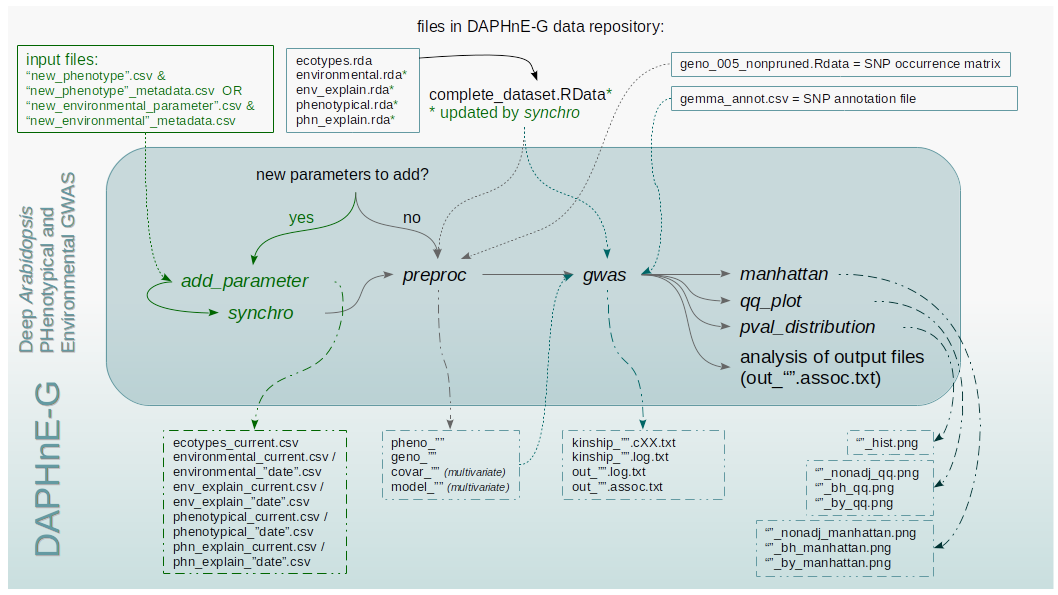
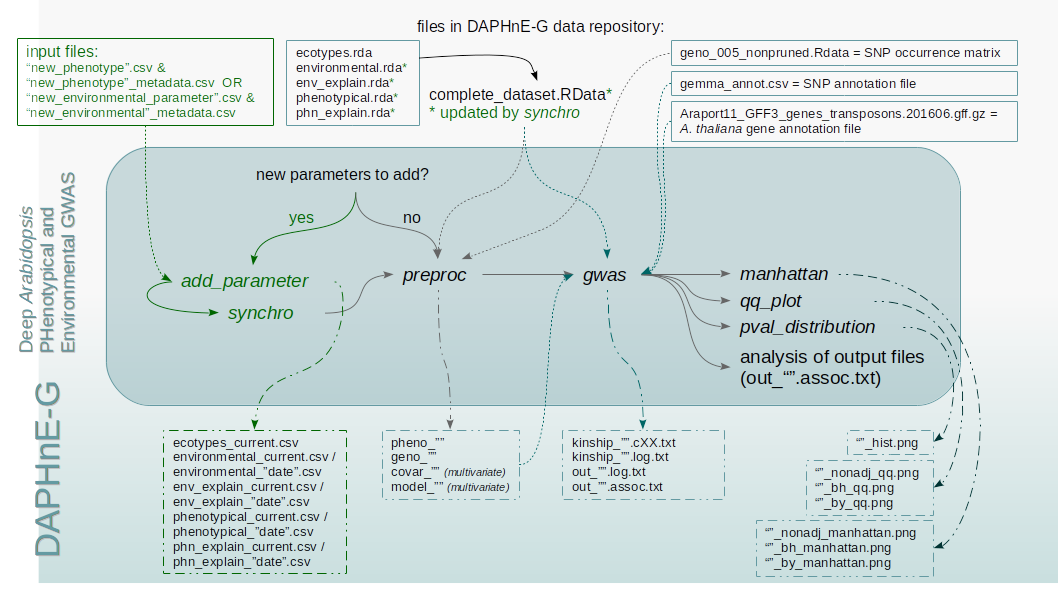
documentation

diff --git a/README.md b/README.md
@@ -91,29 +91,29 @@ The GWAS analysis is carried out by the tool GEMMA (version 0.98.1).
 ## Association study (univariate)
 ```{r}
 # Example with environmental data
-#' gwas(gemma.name = "gemma-0.98.1-linux-static", gw.input = "CO_Spring", gw.cv = 0, gw.annot = "inst/extdata/gemma_annot_example.csv")
+#' gwas(gemma.name = "gemma-0.98.1-linux-static", gw.input = "CO_Spring", gw.cv = 0, gw.snp_annot = "inst/extdata/gemma_annot_example.csv", gw.gen_annot = "inst/extdata/genome_annot_example.gff")
 ```
 
 ## Association study (univariate, leave-one-chromosome-out)
 ```{r}
 # Example with environmental data
-#' gwas(gemma.name = "gemma-0.98.1-linux-static", gw.input = "CO_Spring", gw.cv = 0, gw.annot = "inst/extdata/gemma_annot_example.csv", gw.loco = T)
+#' gwas(gemma.name = "gemma-0.98.1-linux-static", gw.input = "CO_Spring", gw.cv = 0, gw.snp_annot = "inst/extdata/gemma_annot_example.csv", gw.gen_annot = "inst/extdata/genome_annot_example.gff", gw.loco = T)
 ```
 
 ## Association study (univariate, precomputed kinship matrix)
 ```{r}
 # Example with environmental data
-#' gwas(gemma.name = "gemma-0.98.1-linux-static", gw.input = "CO_Spring", gw.cv = 0, gw.annot = "inst/extdata/gemma_annot_example.csv", gw.kinship = "inst/extdata/precomputed_kinship.txt")
+#' gwas(gemma.name = "gemma-0.98.1-linux-static", gw.input = "CO_Spring", gw.cv = 0, gw.snp_annot = "inst/extdata/gemma_annot_example.csv", gw.gen_annot = "inst/extdata/genome_annot_example.gff", gw.kinship = "inst/extdata/precomputed_kinship.txt")
 ```
 
 ## Association study (multivariate, one covariate)
 ```{r}
 # Example with environmental data
-#' gwas(gemma.name = "gemma-0.98.1-linux-static", gw.input = "CO_Spring", gw.cv = 1, gw.annot = "inst/extdata/gemma_annot_example.csv", gw.cov = "ET")
+#' gwas(gemma.name = "gemma-0.98.1-linux-static", gw.input = "CO_Spring", gw.cv = 1, gw.snp_annot = "inst/extdata/gemma_annot_example.csv", gw.gen_annot = "inst/extdata/genome_annot_example.gff", gw.cov = "ET")
 ```
 
 ## Association study (multivariate, n covariates)
 ```{r}
 # Example with environmental data
-#' gwas(gemma.name = "gemma-0.98.1-linux-static", gw.input = "CO_Spring", gw.cv = 2, gw.annot = "inst/extdata/gemma_annot_example.csv", gw.cov = "all")
+#' gwas(gemma.name = "gemma-0.98.1-linux-static", gw.input = "CO_Spring", gw.cv = 2, gw.snp_annot = "inst/extdata/gemma_annot_example.csv", gw.gen_annot = "inst/extdata/genome_annot_example.gff", gw.cov = "all")
 ```
